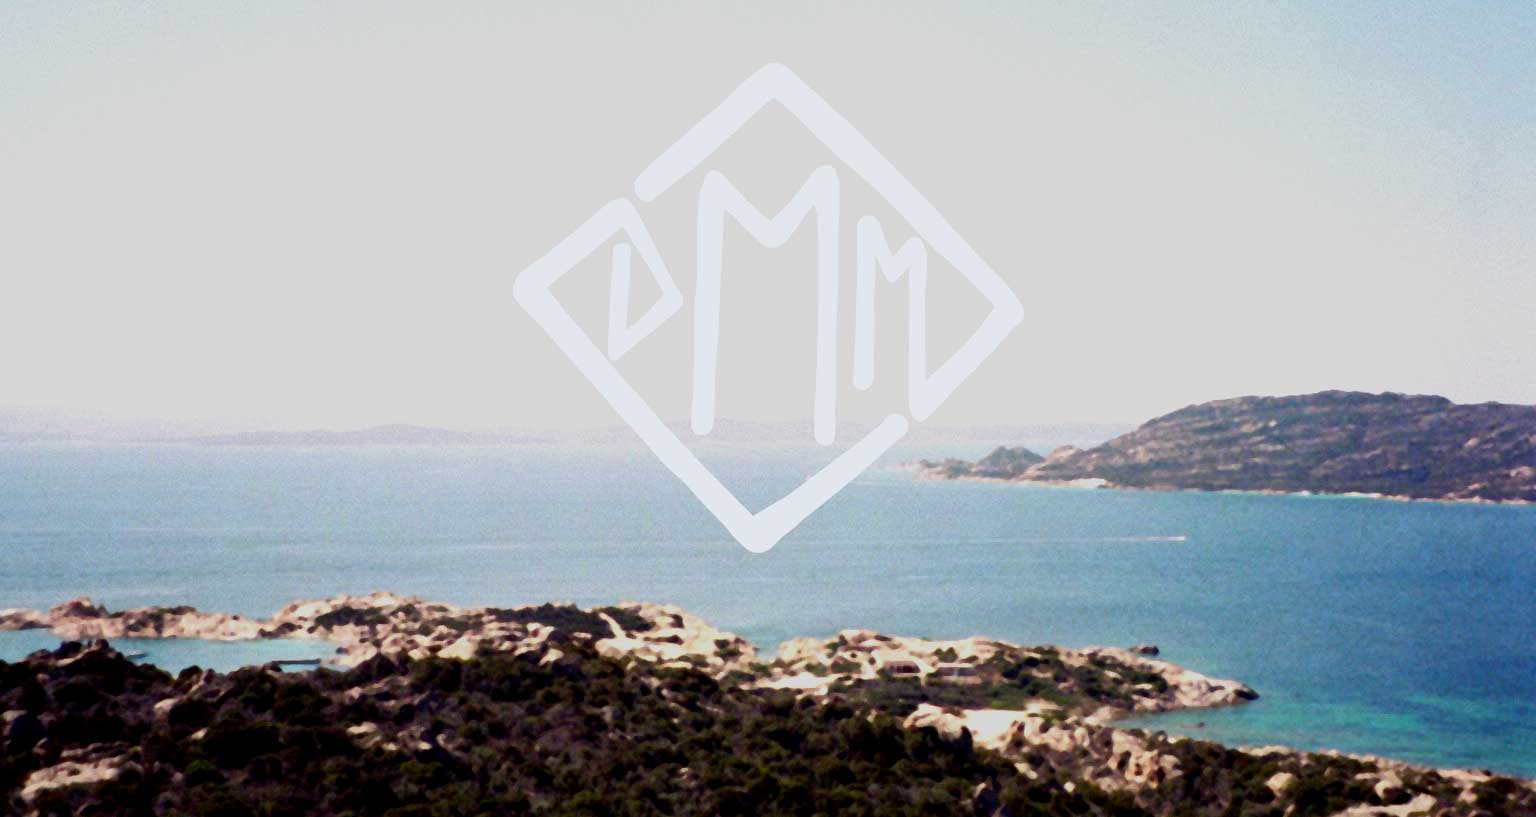
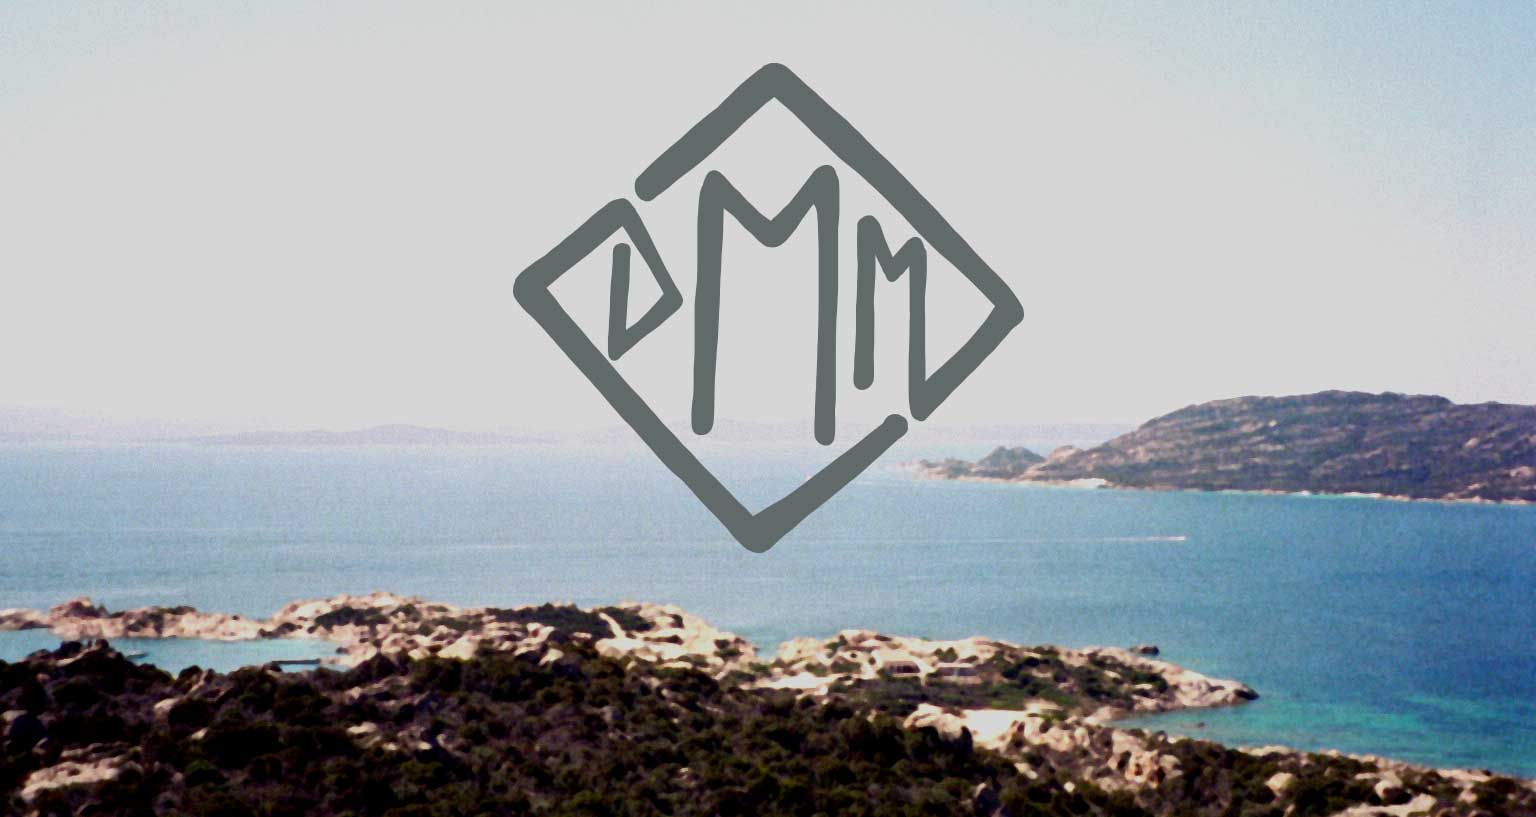
updating home page

Changed region(s): [[0.3125, 0.0612, 0.6875, 0.6732]]

diff --git a/css/styles.css b/css/styles.css
@@ -32,10 +32,15 @@ article {
 	width: 100%; /*960px*/
 	padding: 0;
 }
+header {
+	width: 100%; /*960px*/
+	padding: 30px 0 0 0;
+}
 
 aside {
 	height: 300px;
 	width: 96%;
+	padding: 30px 0 0 60px;
 }
 img {
 	width:100%;
@@ -58,17 +63,20 @@ footer {
 h1 {
 	font-family: 'bodonixtregular', serif;
 	font-size: 24px;
+	color: rgba(99,105,105, 1);
 }
 
 li {
 	font-family: 'bodonixtregular', serif;
 	display: block;
 	font-size: 24px;
+	color: rgba(99,105,105, 1);
 }
 
 a {
 	font-family: 'bodonixtregular', serif;
 	text-decoration: none;
+	color: rgba(99,105,105, 1);
 }
 
 
@@ -80,22 +88,22 @@ a {
 nav li {
 	color: #000;
 	float: right;
-	padding: 30px 10px 10px 10px;
+	padding: 30px 20px 10px 20px;
 	}
 nav li:nth-child(1) {
 	border: solid 3px #999;
 	float: left;
 	font-size: 32px;
-	margin: 20px 0 30px 30px;
+	margin: 20px 0 30px 50px;
 	padding: 5px;	
 }
 
 nav li:nth-child(2) {
-	padding: 30px 30px 10px 10px;
+	padding: 30px 50px 10px 20px;
 }
 
 a:link {
-  color: #CCC;
+  color: rgba(99,105,105, 1);
 }
 
 a:visited {
@@ -111,6 +119,10 @@ a:hover {
 color: black;
 }
 
+nav li:nth-child(1):hover{
+	border: solid 3px black;	
+}
+
 a:active {
   background: white;
 }
@@ -118,19 +130,60 @@ a:active {
 ul {
 	padding: 0;
 }
+
 /*==============================
-	article
+	header
+==============================*/
+header h1 {
+	text-align: center;
+	bottom-border: solid 3px rgba(99,105,105, 1);
+}
+/*==============================
+	aside
 ==============================*/
 
 
+aside li{
+	float:left;
+	width: 212px;
+	height: 196px;
+	padding: 0 30px 0 30px;	
+}
+
+
+
 
 /*==============================
-	bottom
+	footer
 ==============================*/
 
 footer {
-	background: #666;
+	background: rgba(99,105,105, 1);
 }
+
+footer h1{
+	color:white;
+	text-align:center;
+	padding: 50px 0 50px 0;
+}
+
+
+footer img{
+	width: 60%;
+	padding: 15px 15px;
+	border: solid 3px white;
+}
+
+footer li{
+	width: 100px;
+	padding: 0 50px 0 50px ;
+	float: left;
+}
+
+footer ul{
+	padding: 0 0 0 300px;
+}
+
 
 /*=============
  large desktop

diff --git a/work.html b/work.html
@@ -5,31 +5,16 @@
 <title>danielle_mujica</title>
 <link href="favicon.ico" rel="icon" type="image/x-icon" />
 
-	<link rel="stylesheet" href="css/normalize.css" />
-	<link rel="stylesheet" href="css/960.css" />
-    <link href='http://fonts.googleapis.com/css?family=Lato' rel='stylesheet' type='text/css'>	
+	<link rel="stylesheet" href="css/normalize.css" />	
 	<link rel="stylesheet" href="css/styles.css" /> 
 </head>
 
 <body>
-<div class="container_12">
+<div class="container">
 
-<!--sidebar-->
-<div class="grid_12" id="work">
-<h1>work</h1>
-<a href="index.html" class="sidebar"><img src="img/work.jpg" alt="switchboard"/></a>
-</div>
-
-<!--bottom logo-->
-<div class="grid_1">
-<img src="img/logo.jpg" id="toplogo"/>
-</div>
-<div class="grid_2">
-<h2>danielle_mujica</h2>
-</div>
 
  <!--bottom nav-->
-    <nav class="grid_8">
+    <nav>
     <ul>
     <li><a href="index.html">home</a></li>
 	<li><a href="work.html">work</a></li>
@@ -38,7 +23,7 @@
 </ul>
  </nav>	
 
-
+<footer></footer>
 
 </div><!--end container-->
 </body>

diff --git a/index.html b/index.html
@@ -27,17 +27,27 @@
 	<img src="img/homepage.jpg"/>
 </article>
 
-<aside>
+<header>
 	<h1>look here</h1>
+    </header>
+
+<aside>
+	
     <ul>
-        <li><a href="work.html">work</a></li>
-        <li><a href="about.html">about</a></li>
-        <li><a href="contact.html">contact</a></li>
+        <li><img src="img/mooninfographicpreview.jpg"/></li>
+        <li><img src="img/oliveoilpreview.jpg"/></li>
+        <li><img src="img/nu-logo.png"/></li>
 	</ul>
 </aside>
   
 <footer>
-
+ <h1>hello</h1>
+ 	<ul>
+        <li><img src="img/behance-icon.png"/></li>
+        <li><img src="img/email-icon.png"/></li>
+        <li><img src="img/facebook-icon.png"/></li>
+        <li><img src="img/pinterest-icon.png"/></li>
+	</ul>
 </footer>
 
 </div><!--end of container-->

diff --git a/contact.html b/contact.html
@@ -25,7 +25,7 @@
  </nav>	
 
 
-
+<footer></footer>
 
 
 
